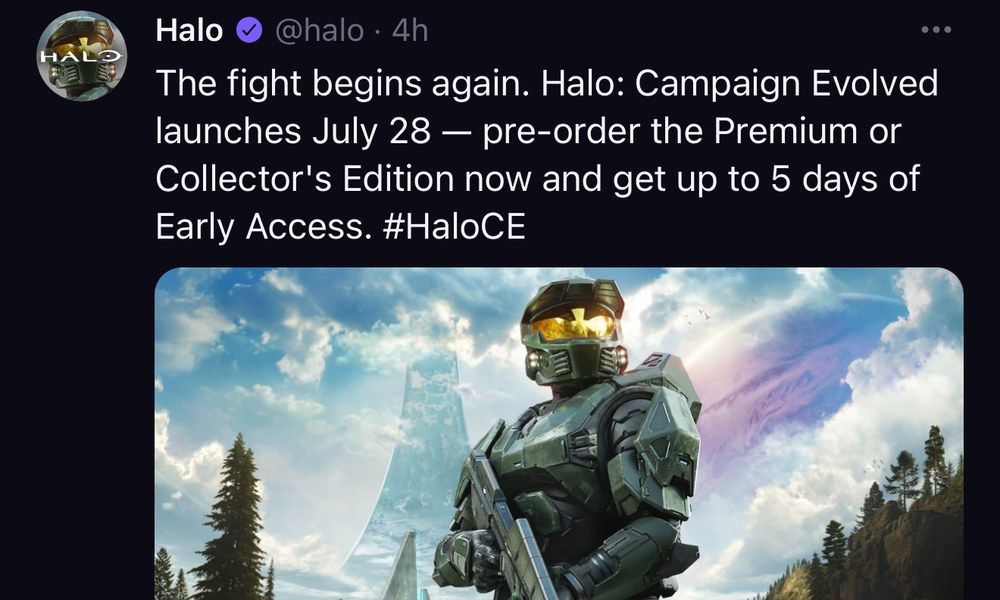
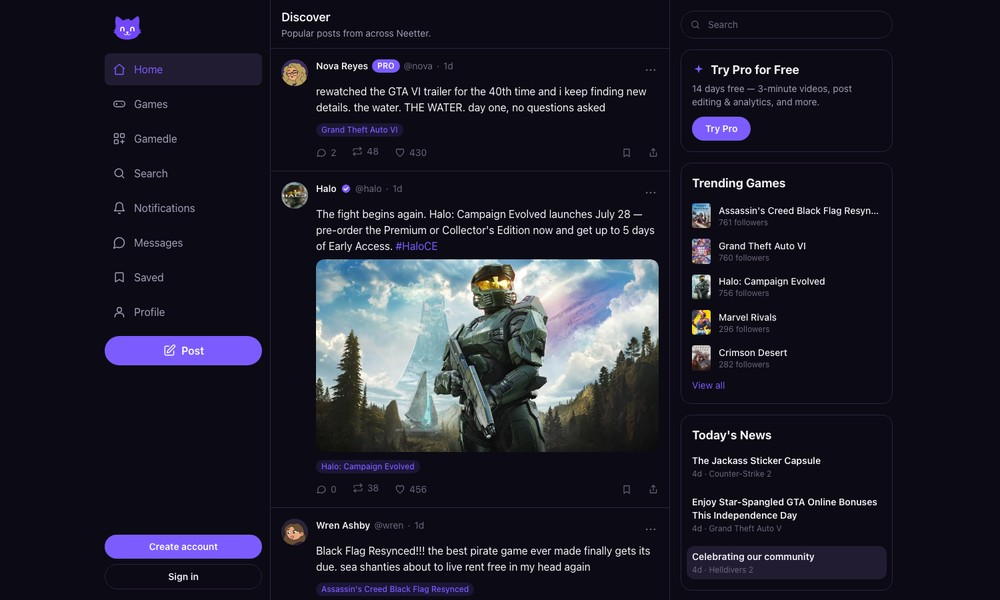
Portfolio: platform-wide Neetter screenshot instead of a single post

diff --git a/_portfolio/neetter.md b/_portfolio/neetter.md
@@ -1,6 +1,6 @@
 ---
 title: "Neetter — a social network for gamers"
-excerpt: "Founder & full-stack developer. Follow people and the games you play — live at neetter.com with an iOS app in TestFlight.<br/><img src='/images/neetter-card.jpg' alt='A post from the official Halo account in the Neetter feed'>"
+excerpt: "Founder & full-stack developer. Follow people and the games you play — live at neetter.com with an iOS app in TestFlight.<br/><img src='/images/neetter-card.jpg' alt='The Neetter web app: navigation, discover feed, and trending games'>"
 collection: portfolio
 date: 2026-06-04
 ---
@@ -12,7 +12,7 @@ think Twitter meets Reddit, but for gamers. You follow people *and* the games
 you play — every game has its own page with a feed, news, community reviews,
 and an about tab, and posts are tagged with the games they're about.
 
-<img src="/images/neetter-card.jpg" alt="A post from the official Halo account in the Neetter feed" style="max-width:100%;border-radius:8px;">
+<img src="/images/neetter-card.jpg" alt="The Neetter web app: navigation, discover feed, and trending games" style="max-width:100%;border-radius:8px;">
 
 What's in the product
 ------
